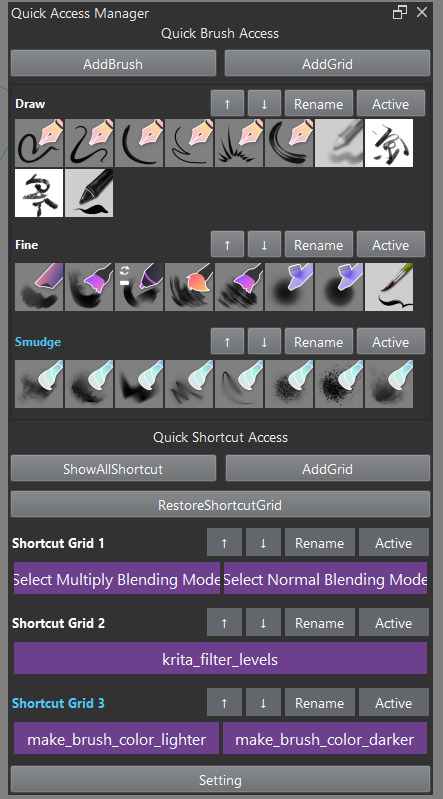
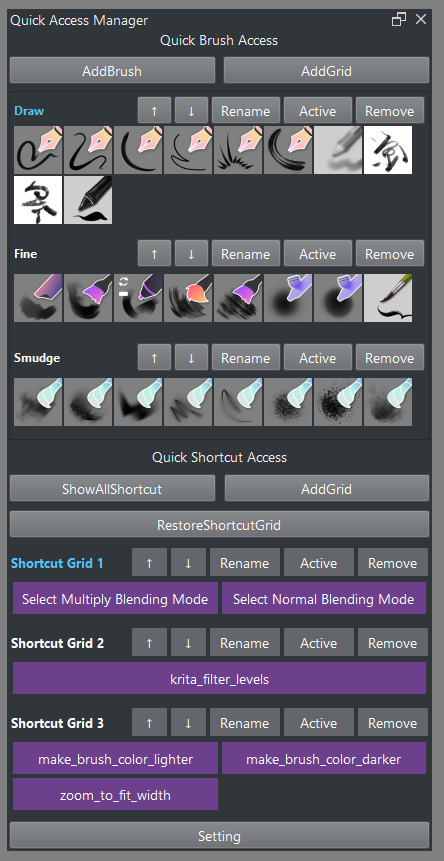
update image

diff --git a/README.md b/README.md
@@ -25,12 +25,15 @@ When Krita starts, the brush preset settings will be loaded automatically.
 However, the shortcut settings will not be loaded automatically because it is difficult to track the timing when Krita loads all shortcut actions.
 Therefore, you need to click the [RestoreShortcutGrid] button manually to restore the shortcut settings.
 
+## Sort/Remove
+Sort a brush or shortcut: Ctrl + left-click on the icon/button to move it inside the same or different grid.
+Remove a brush or shortcut: Ctrl + right-click on the icon/button to remove it from the grid.
+
 ## Other Usage 
 - Add a new grid: Click the "AddGrid" button to create a new grid.
 - Rename a grid: Use the "Rename" button to edit the grid name.
 - Reorder grids: Use the "↑" and "↓" buttons to change the grid order.
-- Sort a brush or shortcut: Ctrl + left-click on the icon/button to move it inside the same or different grid.
-- Remove a brush or shortcut: Ctrl + right-click on the icon/button to remove it from the grid.
 - Change settings: Use the "Setting" button to edit UI and layout settings.
+![How to Add a Brush Preset](./setting/image/image3.jpg)
 
 ## Notes- If you edit config files directly, please close Krita first.
